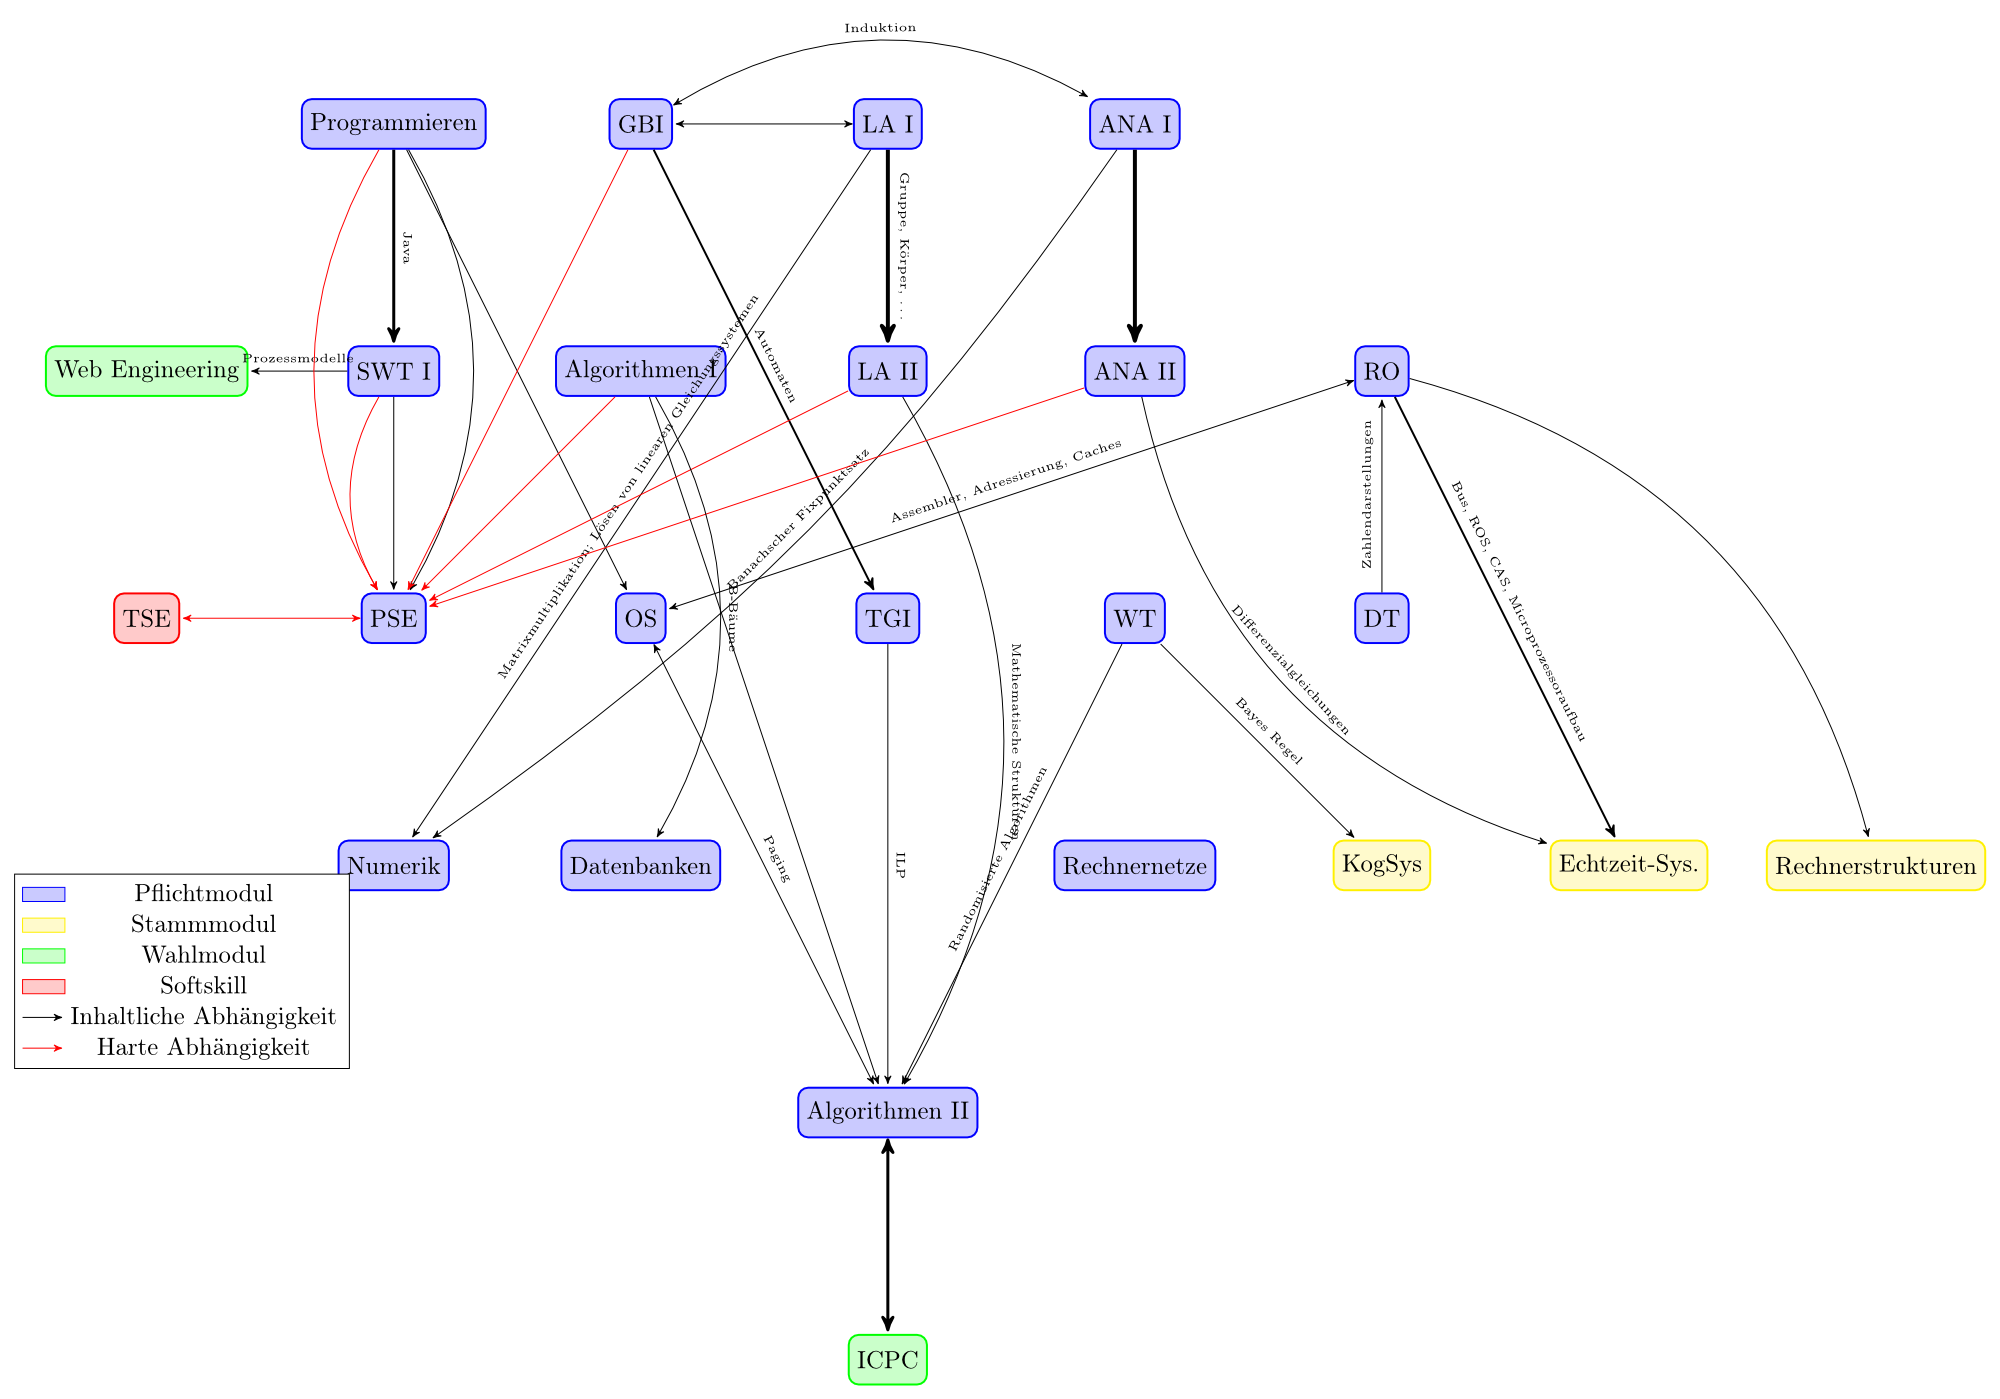
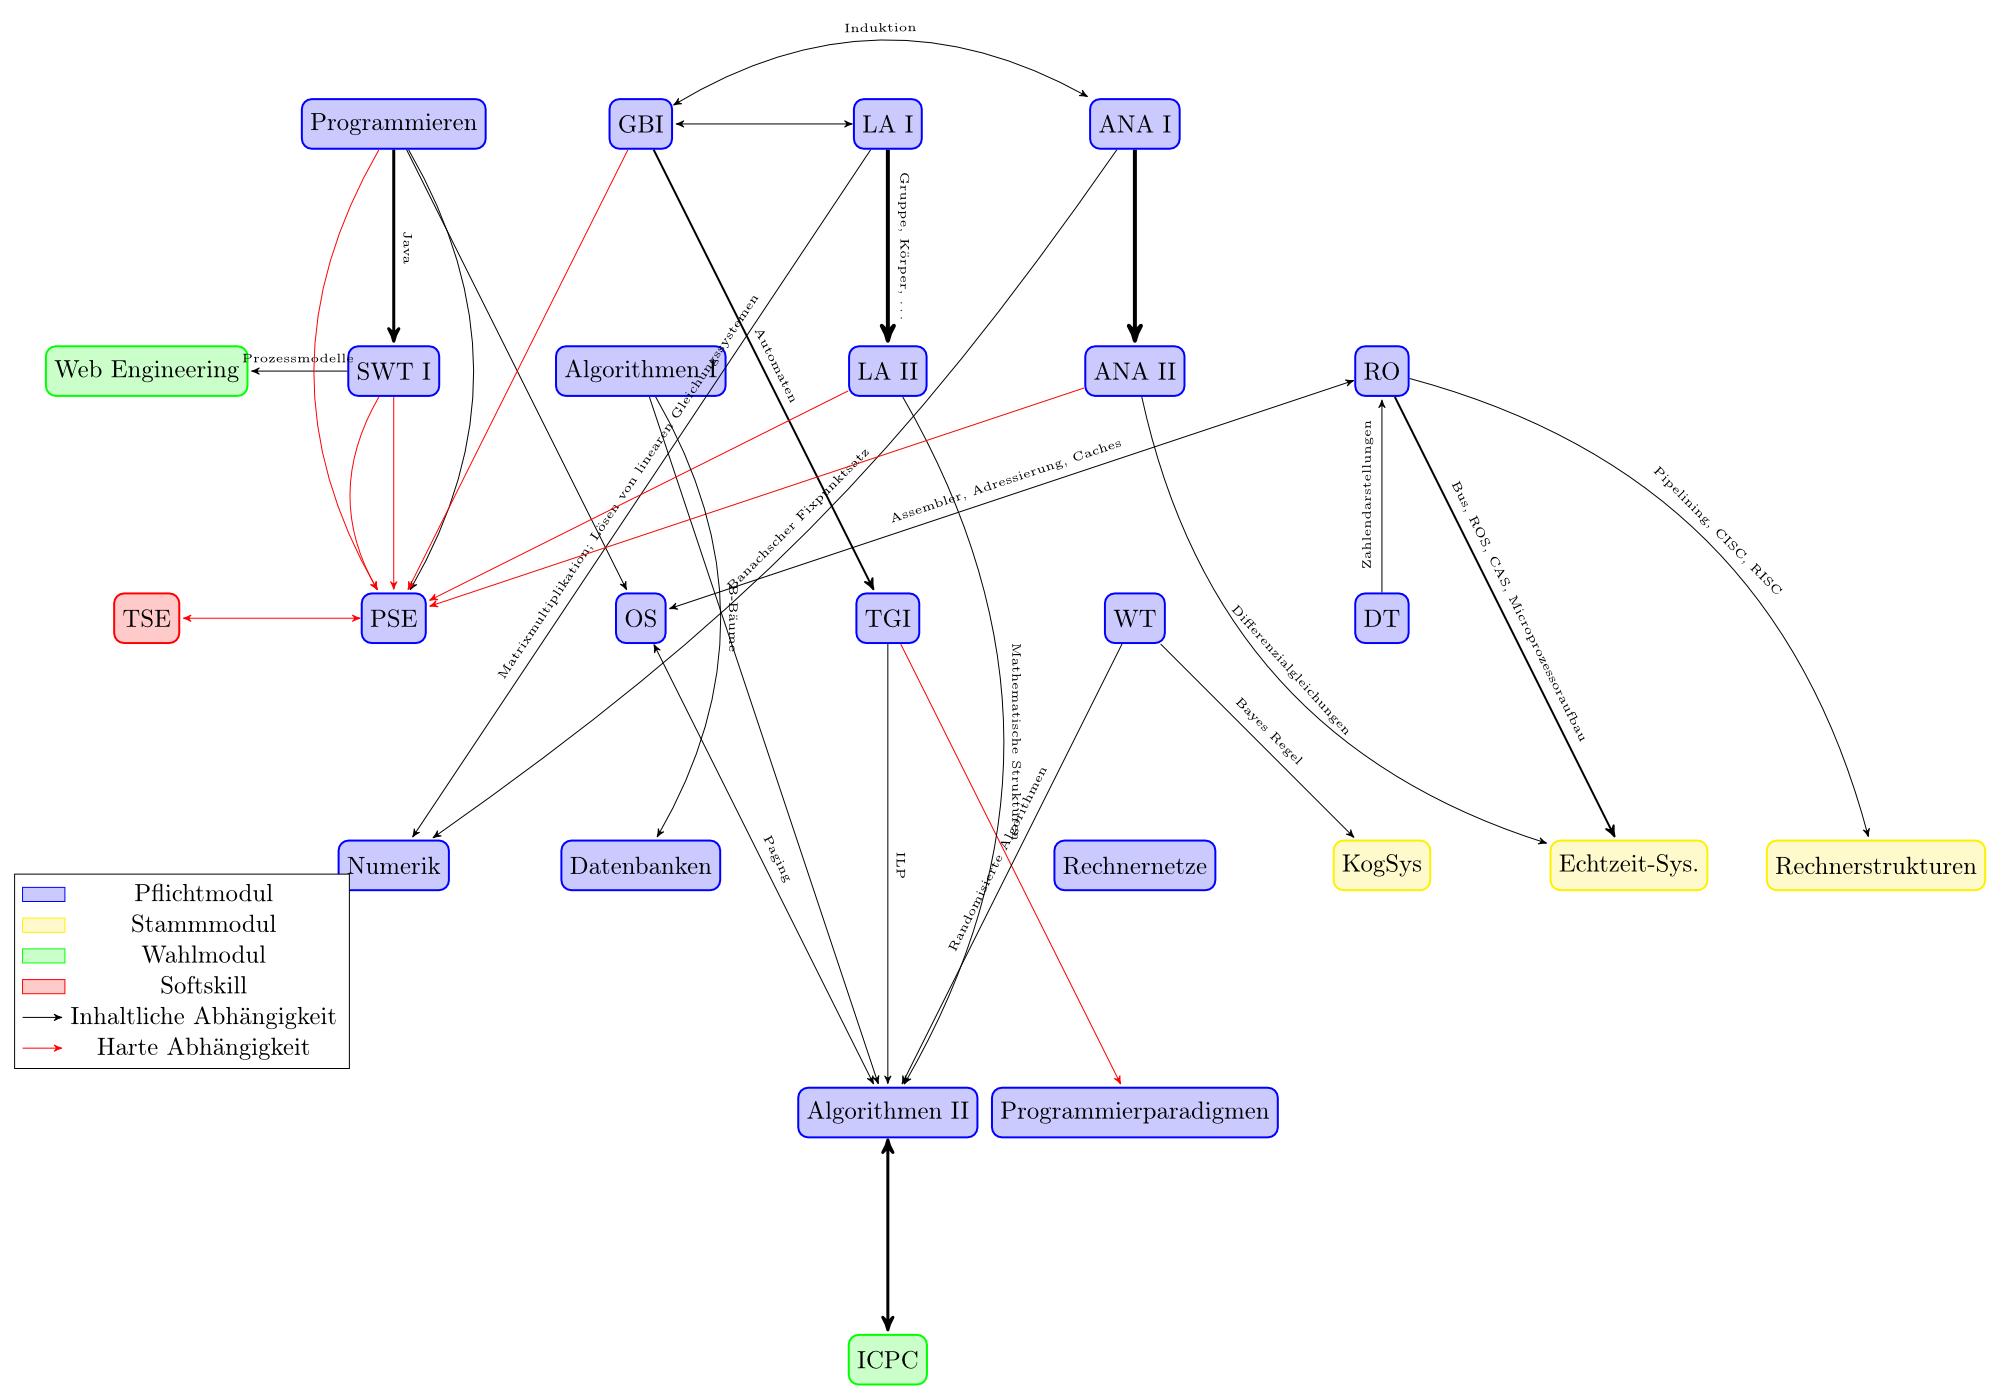
informatikstudium-kit-abhaengigkeitsgraph: weitere abhaengigkeiten

Changed region(s): [[0.496, 0.7684, 0.651, 0.8299]]

diff --git a/tikz/informatikstudium-kit-abhaengigkeitsgraph/informatikstudium-kit-abhaengigkeitsgraph.tex b/tikz/informatikstudium-kit-abhaengigkeitsgraph/informatikstudium-kit-abhaengigkeitsgraph.tex
@@ -61,6 +61,7 @@ soft/.style ={rectangle, draw=red, thick, fill=red!20,align=center, rounded corn
     \node[stammmodul]   (Rechnerstrukturen)  [right of=Echtzeitsysteme] {Rechnerstrukturen};
 
     \node[pflicht] (algii)  [right of=datenbanken, below of=datenbanken] {Algorithmen II};
+    \node[pflicht] (propa)  [right of=algii] {Programmierparadigmen};
 
     \node[wahl]    (icpc)   [below of=algii] {ICPC};
 
@@ -71,6 +72,7 @@ soft/.style ={rectangle, draw=red, thick, fill=red!20,align=center, rounded corn
     \path[->] (gbi)     edge[thick] node[anchor=center,above,sloped] {\tiny{Automaten}} (tgi);
     \path[->] (algi)    edge node {} (algii);
     \path[->] (tgi)     edge node[anchor=center,above,sloped] {\tiny{ILP}} (algii);
+    \path[->] (tgi)     edge[red] node                        {}           (propa);
     \path[->] (wt)      edge node[anchor=center,above,sloped] {\tiny{Randomisierte Algorithmen}} (algii);
     \path[->] (wt)      edge node[anchor=center,above,sloped] {\tiny{Bayes Regel}} (KogSys);
     \path[->] (dt)      edge node[anchor=center,above,sloped] {\tiny{Zahlendarstellungen}} (ro);
@@ -84,7 +86,7 @@ soft/.style ={rectangle, draw=red, thick, fill=red!20,align=center, rounded corn
     \path[->] (programmieren)    edge[very thick] node[anchor=center,above,sloped] {\tiny{Java}} (swti);
     \path[->] (programmieren)    edge[bend left] node {} (pse);
     \path[->] (programmieren)    edge node {} (os);
-    \path[->] (swti)    edge node {} (pse);
+    \path[->] (swti)    edge[red] node {} (pse);
     \path[<->] (ro)     edge node[anchor=center,above,sloped] {\tiny{Assembler, Adressierung, Caches}} (os);
     \path[<->] (algii)  edge [very thick] node {} (icpc);
     \path[->] (swti)    edge node[anchor=center,above,sloped] {\tiny{Prozessmodelle}} (web);
@@ -93,14 +95,14 @@ soft/.style ={rectangle, draw=red, thick, fill=red!20,align=center, rounded corn
     \path[->] (laii)    edge[red] node {} (pse);
     \path[->] (anaii)   edge[red] node {} (pse);
     \path[->] (programmieren)   edge[red, bend right] node {} (pse);
-    \path[->] (algi)    edge[red] node {} (pse);
+    %\path[->] (algi)    edge[red] node {} (pse);
     \path[->] (algi)    edge[bend left] node[anchor=center,above,sloped] {\tiny{B-Bäume}} (datenbanken);
     \path[->] (swti)    edge[red, bend right] node {} (pse);
     \path[->] (gbi)     edge[red] node {} (pse);
     \path[<->] (os)     edge node[anchor=center,above,sloped] {\tiny{Paging}} (algii);
     \path[->] (ro)      edge[thick] node[anchor=center,above,sloped] {\tiny{Bus, ROS, CAS, Microprozessoraufbau}} (Echtzeitsysteme);
     \path[->] (anaii)   edge[bend right] node[anchor=center,above,sloped] {\tiny{Differenzialgleichungen}} (Echtzeitsysteme);
-    \path[->] (ro)   edge[bend left] node[anchor=center,above,sloped] {} (Rechnerstrukturen);
+    \path[->] (ro)   edge[bend left] node[anchor=center,above,sloped] {\tiny{Pipelining, CISC, RISC}} (Rechnerstrukturen);
 
     \begin{customlegend}[legend entries={Pflichtmodul,Stammmodul,Wahlmodul,Softskill,Inhaltliche Abhängigkeit,Harte Abhängigkeit},legend style={at={(-3,-12)},anchor=center}]
     \addlegendimage{blue,fill=blue!20,area legend}
